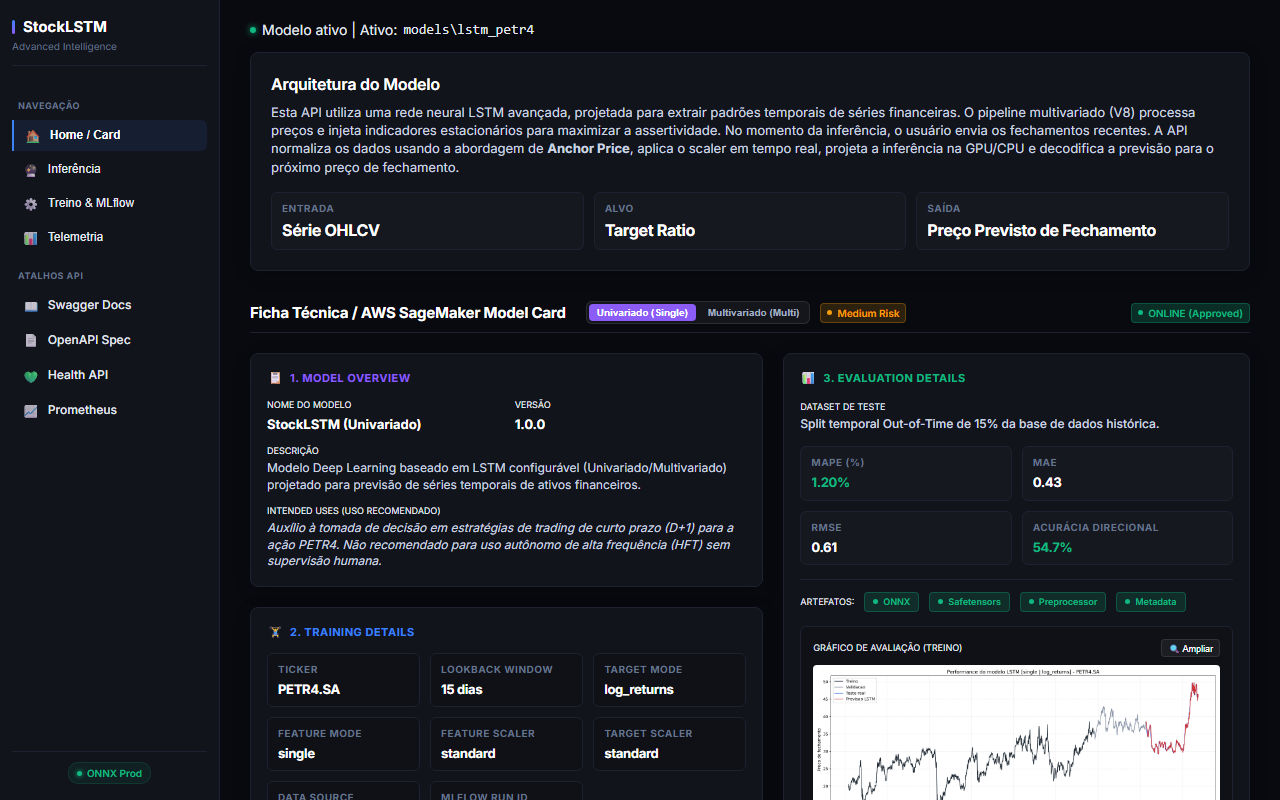
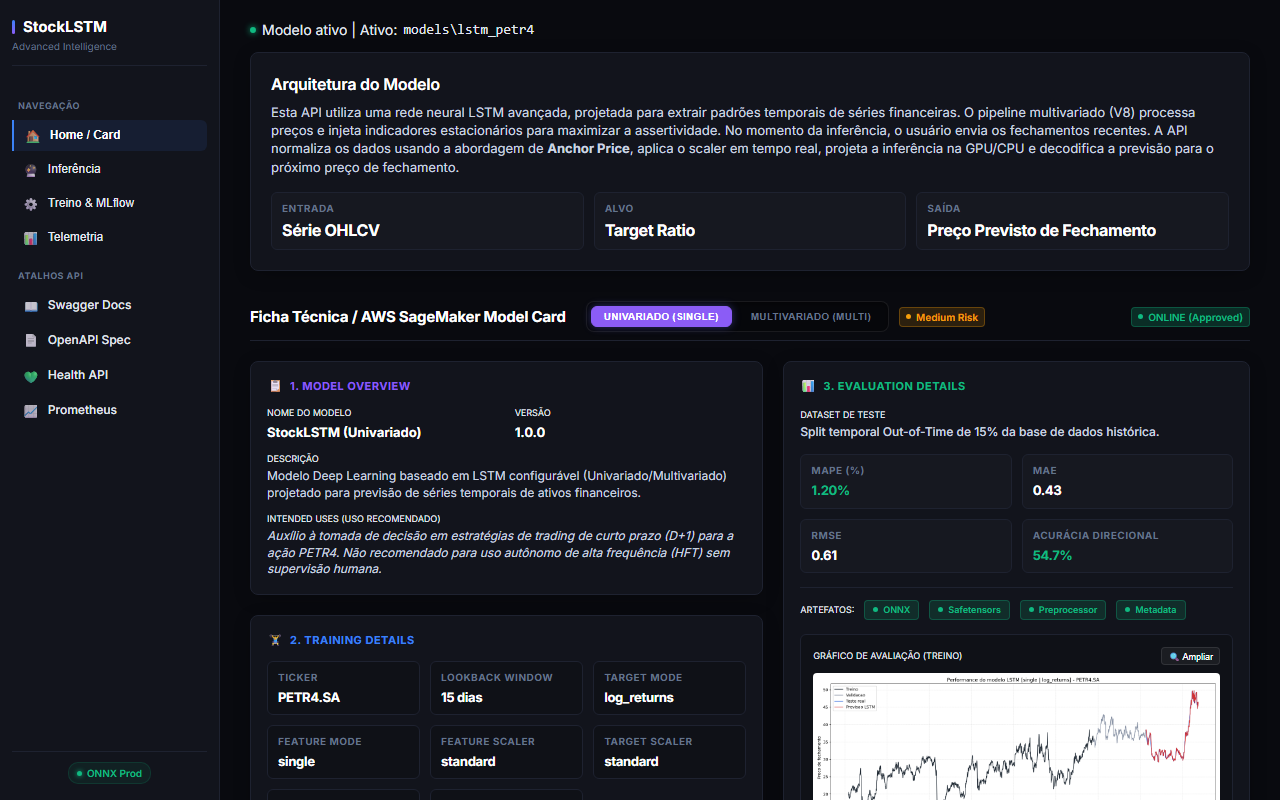
detalhes do dash

diff --git a/src/dashboard.html b/src/dashboard.html
@@ -404,6 +404,33 @@
       border-color: var(--primary);
     }
 
+    .mc-toggle-btn {
+      background: transparent;
+      color: var(--muted);
+      border: 1px solid transparent;
+      padding: 4px 12px;
+      border-radius: 6px;
+      font-size: 10px;
+      font-weight: 700;
+      cursor: pointer;
+      transition: all 0.2s ease;
+      text-transform: uppercase;
+      letter-spacing: 0.3px;
+    }
+
+    .mc-toggle-btn:hover {
+      color: #fff;
+      background: rgba(255, 255, 255, 0.08);
+      border-color: rgba(255, 255, 255, 0.15);
+    }
+
+    .mc-toggle-btn.active {
+      background: var(--accent) !important;
+      color: #fff !important;
+      border-color: var(--accent) !important;
+      box-shadow: 0 0 8px rgba(99, 102, 241, 0.4);
+    }
+
     .tooltip-icon {
       display: inline-flex;
       align-items: center;
@@ -646,13 +673,9 @@
             <h2 style="margin: 0; font-size: 15px; font-weight: 700; color: #fff;">Ficha Técnica / AWS SageMaker Model
               Card</h2>
             <div class="toggle-group"
-              style="display: inline-flex; background: rgba(255,255,255,0.05); padding: 2px; border-radius: 6px; border: 1px solid rgba(255,255,255,0.1); margin-left: 10px; gap: 4px;">
-              <button id="btn-mc-single" onclick="changeModelCardView('single')"
-                style="background: var(--accent); color: #fff; border: none; padding: 3px 8px; border-radius: 4px; font-size: 10px; font-weight: 600; cursor: pointer; transition: 0.2s;">Univariado
-                (Single)</button>
-              <button id="btn-mc-multi" onclick="changeModelCardView('multi')"
-                style="background: transparent; color: #a0aec0; border: none; padding: 3px 8px; border-radius: 4px; font-size: 10px; font-weight: 600; cursor: pointer; transition: 0.2s;">Multivariado
-                (Multi)</button>
+              style="display: inline-flex; background: rgba(0,0,0,0.25); padding: 4px; border-radius: 8px; border: 1px solid rgba(255,255,255,0.08); margin-left: 10px; gap: 6px; box-shadow: inset 0 2px 4px rgba(0,0,0,0.3);">
+              <button id="btn-mc-single" class="mc-toggle-btn active" onclick="changeModelCardView('single')">Univariado (Single)</button>
+              <button id="btn-mc-multi" class="mc-toggle-btn" onclick="changeModelCardView('multi')">Multivariado (Multi)</button>
             </div>
             <span id="mc-risk-rating" class="status-badge"
               style="background: rgba(245, 158, 11, 0.15); color: #f59e0b; border: 1px solid rgba(245, 158, 11, 0.3); font-size: 10px; font-weight: 600; padding: 2px 6px; border-radius: 4px;">Medium
@@ -889,9 +912,9 @@
 
         <div class="cards" style="grid-template-columns: repeat(5, 1fr);">
           <div class="card"><span>Total Requisições</span><strong id="tel-reqs">-</strong></div>
-          <div class="card"><span>Taxa de Erro</span><strong id="tel-errs" style="color: var(--danger);">-</strong></div>
+          <div class="card"><span>Taxa de Erro</span><strong id="tel-errs">-</strong></div>
           <div class="card"><span>Uptime</span><strong id="tel-uptime">-</strong></div>
-          <div class="card"><span>Latência Inferência</span><strong id="tel-lat">-</strong></div>
+          <div class="card"><span>Latência da API</span><strong id="tel-lat">-</strong></div>
           <div class="card"><span>Último Treino</span><strong id="tel-train-time">-</strong></div>
         </div>
 
@@ -1394,7 +1417,10 @@
 
         document.getElementById('tel-reqs').textContent = data.api.total_requests;
         const errRate = data.api.total_requests > 0 ? (data.api.total_errors / data.api.total_requests * 100) : 0;
-        document.getElementById('tel-errs').textContent = errRate.toFixed(1) + '%';
+        const errEl = document.getElementById('tel-errs');
+        errEl.textContent = errRate.toFixed(1) + '%';
+        errEl.style.color = errRate > 0 ? 'var(--danger)' : 'var(--success)';
+
         document.getElementById('tel-uptime').textContent = data.uptime_seconds + 's';
         document.getElementById('tel-lat').textContent = data.inference.average_time_ms.toFixed(1) + ' ms';
 
@@ -1545,15 +1571,11 @@
       const btnMulti = document.getElementById('btn-mc-multi');
 
       if (type === 'single') {
-        btnSingle.style.background = 'var(--accent)';
-        btnSingle.style.color = '#fff';
-        btnMulti.style.background = 'transparent';
-        btnMulti.style.color = '#a0aec0';
+        btnSingle.classList.add('active');
+        btnMulti.classList.remove('active');
       } else {
-        btnMulti.style.background = 'var(--accent)';
-        btnMulti.style.color = '#fff';
-        btnSingle.style.background = 'transparent';
-        btnSingle.style.color = '#a0aec0';
+        btnMulti.classList.add('active');
+        btnSingle.classList.remove('active');
       }
 
       await loadModelCard();
@@ -1636,6 +1658,17 @@
         document.getElementById('mc-target-scaler').textContent = training.target_scaler_type || '-';
         document.getElementById('mc-data-source').textContent = training.data_source || '-';
         document.getElementById('mc-run-id').textContent = training.mlflow_run_id || '-';
+
+        const featureCols = training.feature_cols || [];
+        const featureContainer = document.getElementById('mc-features-container');
+        if (featureCols.length > 1) {
+            featureContainer.style.display = 'block';
+            document.getElementById('mc-feature-count').textContent = training.feature_count || featureCols.length;
+            document.getElementById('mc-feature-cols').textContent = featureCols.join(', ');
+        } else {
+            featureContainer.style.display = 'none';
+        }
+
         document.getElementById('mc-observations').textContent = training.training_observations || '-';
 
         document.getElementById('mc-eval-dataset').textContent = evaluation.evaluation_dataset || '-';